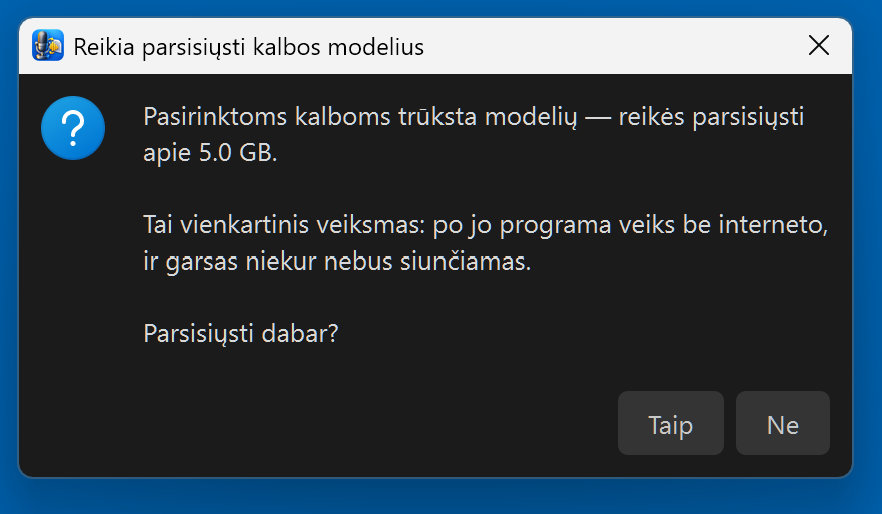
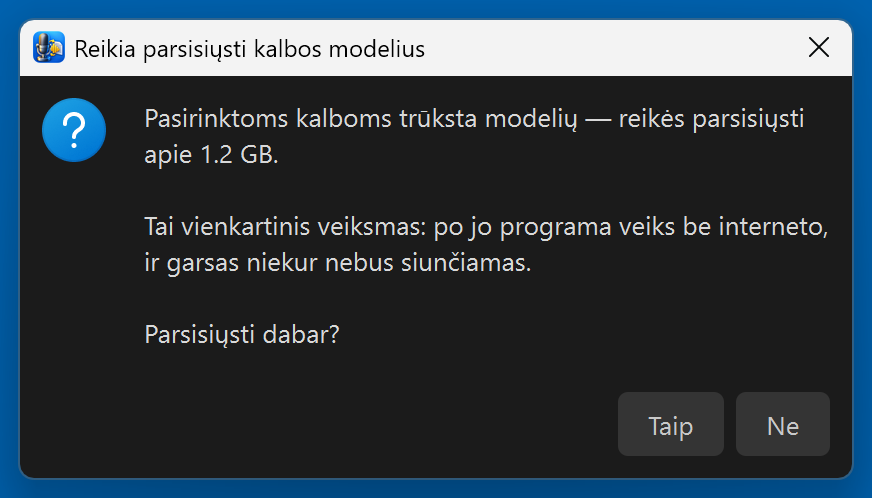
Screenshots for 0.2: gear menu with the new ears (Robertas's phone photo - Print Screen closes the menu) and the 1.2 GB download question

diff --git a/docs/index.html b/docs/index.html
@@ -81,8 +81,8 @@
 <section class="wrap">
   <h2>Kaip atrodo</h2>
   <div class="shots">
-    <img src="dantratis.png" alt="Dantračio meniu: skyryba, visada viršuje, žurnalo jungikliai (paveikslėlis iš 0.1)">
-    <img src="dialogas_modeliai.png" alt="Pirmas paleidimas: reikia parsisiųsti kalbos modelius — Taip / Ne (paveikslėlis iš 0.1)">
+    <img src="dantratis.png" alt="Dantračio meniu: skyryba, visada viršuje, mikrofonas, žurnalo jungikliai, „Ausys: LT_ausys — Kristijonas Jakubsonas", „Ausys: GigaAM v3 — SberDevices"">
+    <img src="dialogas_modeliai.png" alt="Pirmas paleidimas: reikia parsisiųsti kalbos modelius — apie 1,2 GB — Taip / Ne">
     <img src="dialogas_nvidia.png" alt="Rasta NVIDIA vaizdo plokštė — parsisiųsti bibliotekas?">
     <img src="diegimas_kalbos.png" alt="Diegimas lietuviškai: diktavimo kalbų pasirinkimas">
   </div>

diff --git a/README_EN.md b/README_EN.md
@@ -75,7 +75,7 @@ The installer contains no models: they are large and only needed for the languag
 | Lithuanian + English | ~4.1 GB |
 | Russian + English | ~3.3 GB |
 
-![Language models need downloading — Yes / No (Lithuanian UI, picture from 0.1 when Lithuanian + English was still 5.0 GB)](docs/dialogas_modeliai.png)
+![Language models need downloading — Lithuanian + Russian: about 1.2 GB — Yes / No (Lithuanian UI shown)](docs/dialogas_modeliai.png)
 
 The status will say **"Downloading…"** for one to ten minutes on a home connection, depending on what you picked; the wave does not move meanwhile, that is normal. Then **"Loading…"** (Lithuanian and Russian: a few seconds; with English: 10–20 s), then **"Ready"** with a green dot. This happens once; afterwards the program works offline.
 
@@ -101,7 +101,7 @@ The installer itself, with the two-language limit (screens are in Lithuanian; En
 
 Punctuation and capitals · Always on top · **Microphone** (which one to listen to; default is the Windows default — if Windows switches it when you plug in a USB speaker or headset, pick yours here and the program sticks to it, remembered by name) · **Write a diagnostic log** (off; device, timings, errors only — safe to send anyone) · **Also store the text in the log** (off; asks for confirmation, because then *everything you dictate* goes into that file — letters, health, a password said aloud). Settings persist. The menu always says which model is listening, for each installed language — e.g. *Recognition: LT_ausys — Kristijonas Jakubsonas*, or *no model* if it was not downloaded.
 
-![Gear menu (Lithuanian UI): punctuation, always on top, the two log switches, "Audio and text stay on this computer" (picture from 0.1 — the bottom line then still said "Paprika")](docs/dantratis.png)
+![Gear menu (Lithuanian UI): punctuation, always on top, microphone, the two log switches, "Audio and text stay on this computer", "Recognition: LT_ausys — Kristijonas Jakubsonas", "GigaAM v3 — SberDevices" (a phone photo — Print Screen closes the menu)](docs/dantratis.png)
 
 ## Languages — why at most two
 

diff --git a/README.md b/README.md
@@ -87,7 +87,7 @@ Pačiame instaliatoriuje modelių nėra: jie dideli ir reikalingi tik toms kalbo
 | lietuvių + anglų | ~4,1 GB |
 | rusų + anglų | ~3,3 GB |
 
-![Reikia parsisiųsti kalbos modelius — Taip / Ne (paveikslėlis iš 0.1, kai lietuvių + anglų dar buvo 5,0 GB)](docs/dialogas_modeliai.png)
+![Reikia parsisiųsti kalbos modelius — lietuvių + rusų: apie 1,2 GB — Taip / Ne](docs/dialogas_modeliai.png)
 
 Būsenoje rašys **„Siunčiu…"** — su įprastu namų internetu tai nuo minutės iki dešimties, priklausomai nuo kiek pasirinkai. Banga tuo metu nejuda, tai normalu. Paskui **„Kraunu…"** (lietuvių ir rusų — kelios sekundės, su anglų — 10–20 s), paskui **„Pasiruošęs"** su žaliu tašku. Tai vienkartinis veiksmas — toliau programa dirba be interneto.
 
@@ -135,7 +135,7 @@ Galima sakyti ir ženklus: *taškas, kablelis, brūkšnys, pliusas, lygu, procen
 
 Nustatymai įsimenami. Apačioje meniu visada parašyta, kas klauso — kiekvienai įdiegtai kalbai: *Ausys: LT_ausys — Kristijonas Jakubsonas*, *Ausys: GigaAM v3 — SberDevices* arba, jei modelis neparsisiųstas, *modelio nėra*.
 
-![Dantračio meniu: Skyryba ir didžiosios, Visada viršuje, du žurnalo jungikliai, „Garsas ir tekstas lieka šiame kompiuteryje" (paveikslėlis iš 0.1 — tada apačioje dar buvo „Ausys: Paprika")](docs/dantratis.png)
+![Dantračio meniu: Skyryba ir didžiosios, Visada viršuje, Mikrofonas, du žurnalo jungikliai, „Garsas ir tekstas lieka šiame kompiuteryje", „Ausys: LT_ausys — Kristijonas Jakubsonas", „Ausys: GigaAM v3 — SberDevices" (Roberto nuotrauka telefonu — Print Screen meniu uždaro)](docs/dantratis.png)
 
 Klaustukas — instrukcija pačioje programoje, „Apie" ir kelias pas asistentą:
 
